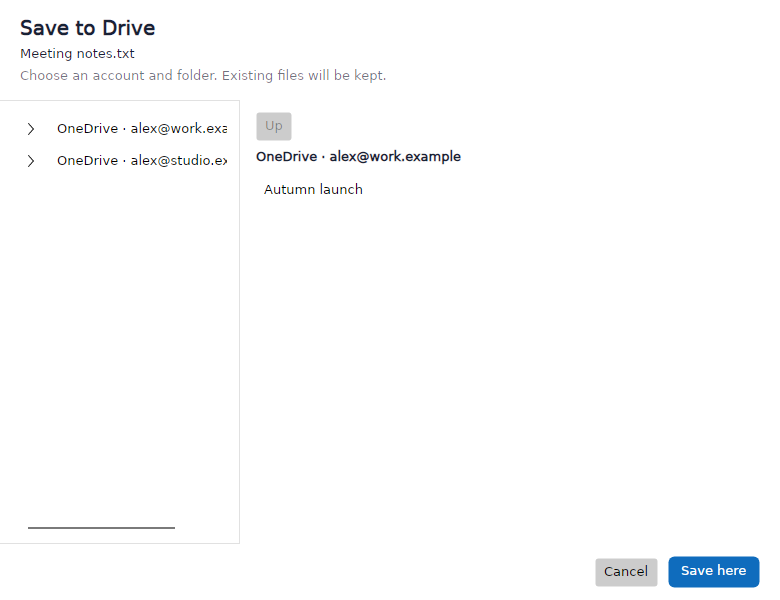
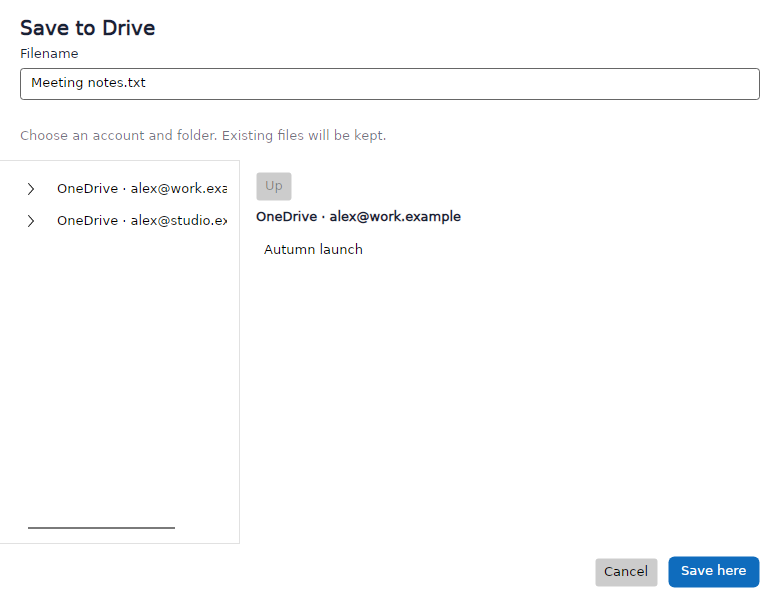
Validate editable attachment filenames against Drive path limits

Changed region(s): [[0.0308, 0.18, 0.5846, 0.42], [0.0308, 0.06, 0.4923, 0.18], [0.0615, 0.36, 0.3077, 0.39]]

diff --git a/src/BetterMail.App/AttachmentDriveSaveViewModel.cs b/src/BetterMail.App/AttachmentDriveSaveViewModel.cs
@@ -10,6 +10,7 @@ public sealed class AttachmentDriveSaveViewModel : ViewModelBase
     private bool _isSaving;
     private bool _isSaved;
     private string? _status;
+    private string _fileName = "";
 
     public AttachmentDriveSaveViewModel(IFilesProvider provider, IReadOnlyList<MailAccount> accounts,
         string name, string contentType, byte[] content)
@@ -17,7 +18,7 @@ public sealed class AttachmentDriveSaveViewModel : ViewModelBase
         _provider = provider;
         _content = content;
         _contentType = contentType;
-        FileName = NormalizeFileName(name);
+        _fileName = NormalizeFileName(name);
         var driveAccounts = accounts.Where(account => account.Capabilities.HasFlag(ProviderCapabilities.Files)).ToArray();
         Workspace = new DriveWorkspaceViewModel(provider, driveAccounts);
         Status = driveAccounts.Length == 0 ? "Connect a OneDrive account in Settings to save attachments to Drive." : null;
@@ -48,18 +49,43 @@ public sealed class AttachmentDriveSaveViewModel : ViewModelBase
     }
 
     public DriveWorkspaceViewModel Workspace { get; }
-    public string FileName { get; }
+    public string FileName
+    {
+        get => _fileName;
+        set
+        {
+            if (CanBrowse && SetProperty(ref _fileName, value)) Refresh();
+        }
+    }
+    public string? FileNameError
+    {
+        get
+        {
+            if (string.IsNullOrWhiteSpace(FileName)) return "Enter a filename.";
+            if (FileName.Length > 255) return "Shorten the filename to 255 characters or fewer, including the extension.";
+            if (NormalizeFileName(FileName) != FileName) return "Use a valid Drive filename without reserved names or characters.";
+            var pathLength = FileName.Length;
+            // Folder names from Graph JSON are already decoded. Count separators and
+            // actual names, not URL escapes or the account label shown at the root.
+            for (var node = Workspace.SelectedDirectory; node?.Item is { } item; node = node.Parent)
+                pathLength += item.Name.Length + 1;
+            return pathLength > 400
+                ? "The folder path and filename exceed 400 characters. Shorten the filename or choose a folder closer to the root."
+                : null;
+        }
+    }
     public bool IsSaving { get => _isSaving; private set { SetProperty(ref _isSaving, value); Refresh(); } }
     public bool IsSaved { get => _isSaved; private set { SetProperty(ref _isSaved, value); Refresh(); } }
     public string? Status { get => _status; private set => SetProperty(ref _status, value); }
     public string CloseLabel => IsSaving ? "Cancel upload" : IsSaved ? "Done" : "Cancel";
     public bool CanBrowse => !IsSaving && !IsSaved;
-    public bool CanSave => CanBrowse && !Workspace.IsNavigating && Workspace.SelectedDirectory is { IsLoaded: true, HasError: false, IsLoading: false };
+    public bool CanSave => CanBrowse && FileNameError is null && !Workspace.IsNavigating && Workspace.SelectedDirectory is { IsLoaded: true, HasError: false, IsLoading: false };
 
     public async Task SaveAsync(CancellationToken cancellationToken = default)
     {
         if (!CanSave || Workspace.SelectedDirectory is not { } destination)
             return;
+        var fileName = FileName;
         IsSaving = true;
         Status = $"Saving to {destination.PathLabel}…";
         try
@@ -67,7 +93,7 @@ public sealed class AttachmentDriveSaveViewModel : ViewModelBase
             var saved = await Task.Run(async () =>
             {
                 using var stream = new MemoryStream(_content, writable: false);
-                return await _provider.UploadFileAsync(destination.Account, destination.Item, FileName,
+                return await _provider.UploadFileAsync(destination.Account, destination.Item, fileName,
                     stream, _content.LongLength, _contentType, cancellationToken).ConfigureAwait(false);
             }, cancellationToken);
             IsSaved = true;
@@ -89,6 +115,7 @@ public sealed class AttachmentDriveSaveViewModel : ViewModelBase
 
     private void Refresh()
     {
+        RaisePropertyChanged(nameof(FileNameError));
         RaisePropertyChanged(nameof(CloseLabel));
         RaisePropertyChanged(nameof(CanBrowse));
         RaisePropertyChanged(nameof(CanSave));

diff --git a/tests/BetterMail.Tests/AttachmentDriveSaveTests.cs b/tests/BetterMail.Tests/AttachmentDriveSaveTests.cs
@@ -189,6 +189,61 @@ public sealed class AttachmentDriveSaveTests
         Assert.True(model.CanSave);
     }
 
+    [Theory]
+    [InlineData(256)]
+    [InlineData(401)]
+    public async Task LongFilenameMustBeShortenedBeforeUpload(int length)
+    {
+        var token = TestContext.Current.CancellationToken;
+        var provider = new Files();
+        var model = new AttachmentDriveSaveViewModel(provider, [Account], new string('a', length - 4) + ".pdf", "application/pdf", [1]);
+        await model.Workspace.InitializeAsync(token);
+        Assert.False(model.CanSave);
+        Assert.Contains("255", model.FileNameError);
+        await model.SaveAsync(token);
+        Assert.Equal(0, provider.Uploads);
+        model.FileName = "Shortened report.pdf";
+        Assert.True(model.CanSave);
+        await model.SaveAsync(token);
+        Assert.Equal("Shortened report.pdf", provider.Name);
+        model.FileName = "Changed after saving.pdf";
+        Assert.Equal("Shortened report.pdf", model.FileName);
+    }
+
+    [Fact]
+    public async Task FilenameValidationCountsDecodedFolderNamesAndUpdatesWhenDestinationChanges()
+    {
+        var token = TestContext.Current.CancellationToken;
+        var provider = new Files();
+        var model = new AttachmentDriveSaveViewModel(provider, [Account], new string('a', 35) + ".pdf", "application/pdf", []);
+        await model.Workspace.InitializeAsync(token);
+        var root = model.Workspace.Roots[0];
+        root.SetItems([Folder with { Name = new string('x', 178) + " %" }], _ => Task.CompletedTask);
+        var first = root.Children[0];
+        first.SetItems([Folder with { ProviderId = "nested", Name = new string('y', 180) }], _ => Task.CompletedTask);
+        var nested = first.Children[0];
+        nested.SetItems([], _ => Task.CompletedTask);
+        await model.Workspace.SelectDirectoryAsync(nested, token);
+        // 180 + '/' + 180 + '/' + 39 = 401; the literal space and percent each count once.
+        Assert.False(model.CanSave);
+        Assert.Contains("400", model.FileNameError);
+        await model.SaveAsync(token);
+        Assert.Equal(0, provider.Uploads);
+        model.FileName = new string('a', 34) + ".pdf";
+        Assert.True(model.CanSave); // Exactly 400 characters.
+        model.FileName += "x";
+        Assert.False(model.CanSave);
+        await model.Workspace.SelectDirectoryAsync(root, token);
+        Assert.True(model.CanSave);
+        model.FileName = new string('a', 251) + ".pdf";
+        Assert.True(model.CanSave); // Exactly 255 characters at the root.
+        model.FileName = "CON.pdf";
+        Assert.False(model.CanSave);
+        Assert.NotNull(model.FileNameError);
+        model.FileName = "";
+        Assert.False(model.CanSave);
+    }
+
     private sealed class Files : IFilesProvider
     {
         public TaskCompletionSource Started = new(TaskCreationOptions.RunContinuationsAsynchronously);

diff --git a/docs/ui/README.md b/docs/ui/README.md
@@ -68,3 +68,5 @@ OneDrive is supported in this change. Google Drive authorization and provider su
 [Attachment viewer](screenshots/attachment-preview-light.png) · [Destination, light](screenshots/attachment-save-drive-light.png) · [Destination, dark](screenshots/attachment-save-drive-dark.png)
 
 These are the actual Avalonia views with fictional offline data. Regression tests cover account/folder selection, root uploads, exact bytes and metadata, duplicate submissions, failure, cancellation, and mail-only account exclusion. No live account upload was performed.
+
+The destination picker exposes an editable filename and blocks upload when the name exceeds 255 characters or its path through the selected folders exceeds 400 characters. Inline validation updates when the filename or destination changes; users can shorten the name or choose a folder nearer the root. Limits follow [Microsoft documentation](https://support.microsoft.com/en-us/onedrive/what-are-file-path-length-limits).
